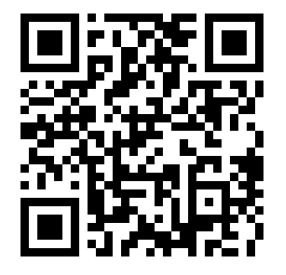
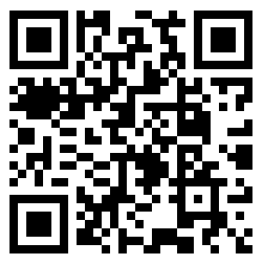
qrpadus.png replace Co-authored-by: monkeycode-ai <monkeycode-ai@chaitin.com>

diff --git a/index.html b/index.html
@@ -7,7 +7,7 @@
     <meta name="description" content="Aplikasi absensi ekstrakurikuler Paduan Suara berbasis Google Sheets.">
     <meta name="theme-color" content="#2563eb">
     <link rel="icon" type="image/png" href="favicon.png">
-    <link rel="stylesheet" href="styles.css?v=20260928n">
+    <link rel="stylesheet" href="styles.css?v=20260928o">
     <style>div[data-netlify-badge-floating] { display: none !important; }</style>
     <link rel="preconnect" href="https://fonts.googleapis.com">
     <link rel="preconnect" href="https://fonts.gstatic.com" crossorigin>
@@ -15,8 +15,8 @@
     <noscript>
         <link rel="stylesheet" href="https://fonts.googleapis.com/css2?family=Inter:wght@400;500;600;700&display=swap">
     </noscript>
-    <script src="config.js?v=20260928n" defer></script>
-    <script src="app.js?v=20260928n" defer></script>
+    <script src="config.js?v=20260928o" defer></script>
+    <script src="app.js?v=20260928o" defer></script>
 </head>
 <body class="min-h-screen flex flex-col items-center justify-center p-4 bg-gray-50">
 

diff --git a/app.js b/app.js
@@ -8,8 +8,8 @@
 // cache aset tersedia sesegera mungkin.
 // Sekaligus deteksi bila ada versi baru terpasang agar pengguna
 // dapat diminta melakukan hard refresh.
-const APP_ASSET_VERSION = '20260928n';
-const APP_CACHE_NAME = 'choir-absensi-v110';
+const APP_ASSET_VERSION = '20260928o';
+const APP_CACHE_NAME = 'choir-absensi-v111';
 let swRegistration = null;
 let updateModalShown = false;
 let updateReloadArmed = false;

diff --git a/sw.js b/sw.js
@@ -7,8 +7,8 @@
      aset app.js/styles.css yang tidak lagi dipakai dibersihkan agar
      cache tetap ramping.
 */
-var CACHE_NAME = 'choir-absensi-v110';
-var ASSET_VERSION = '20260928n';
+var CACHE_NAME = 'choir-absensi-v111';
+var ASSET_VERSION = '20260928o';
 var CORE_ASSETS = [
   './',
   './app.js?v=' + ASSET_VERSION,

diff --git a/README.md b/README.md
@@ -41,7 +41,7 @@ Karena itu, setelah mengubah file frontend: **push ke GitHub**, lalu **redeploy 
 
 ## Caching (Service Worker)
 
-`sw.js` meng-cache aset statis (CSS, JS, `Absensi.md`, ikon, logo, halaman utama) agar aplikasi terbuka cepat pada kunjungan berikutnya dan tetap bisa diakses saat offline. Strategi: **cache-first** untuk navigasi halaman (HTML cache tidak ditimpa sampai Hard Refresh, agar modal **Pembaruan Tersedia** sempat tampil), **network-first** untuk `config.js` (perubahan URL default oleh admin langsung terpakai di semua perangkat; fallback cache saat offline), **cache-first** untuk aset statis same-origin lainnya (di-bust lewat `?v=`), dan **stale-while-revalidate** untuk font Google lintas-origin. Cache diberi versi (`CACHE_NAME`, kini `choir-absensi-v110`); versi lama otomatis dibersihkan saat aktivasi, varian aset `app.js`/`styles.css`/`config.js` yang sudah tidak dipakai ikut dihapus (cache tetap ramping), dan jumlah entri dibatasi (100).
+`sw.js` meng-cache aset statis (CSS, JS, `Absensi.md`, ikon, logo, halaman utama) agar aplikasi terbuka cepat pada kunjungan berikutnya dan tetap bisa diakses saat offline. Strategi: **cache-first** untuk navigasi halaman (HTML cache tidak ditimpa sampai Hard Refresh, agar modal **Pembaruan Tersedia** sempat tampil), **network-first** untuk `config.js` (perubahan URL default oleh admin langsung terpakai di semua perangkat; fallback cache saat offline), **cache-first** untuk aset statis same-origin lainnya (di-bust lewat `?v=`), dan **stale-while-revalidate** untuk font Google lintas-origin. Cache diberi versi (`CACHE_NAME`, kini `choir-absensi-v111`); versi lama otomatis dibersihkan saat aktivasi, varian aset `app.js`/`styles.css`/`config.js` yang sudah tidak dipakai ikut dihapus (cache tetap ramping), dan jumlah entri dibatasi (100).
 
 Karena aset statis memakai strategi cache-first, setiap rilis memakai **cache-busting berbasis tanggal rilis saat ini** pada `app.js`, `styles.css`, dan `config.js` (contoh `?v=20260928a`) agar browser mengambil file versi terbaru — URL baru = cache miss = unduh ulang, lalu di-cache. Bila ada beberapa deploy dalam satu hari, tambahkan akhiran (contoh `?v=20260928a`, `?v=20260928b`). Jangan pernah memakai tanggal lama lagi (risiko cache basi).
 
@@ -62,7 +62,7 @@ Saat deploy, selain mengganti `?v=` di `index.html`, perbarui juga `ASSET_VERSIO
 - **Ikon pada tombol**: setiap tombol aksi dilengkapi ikon SVG inline (mis. printer untuk **Print**, gembok untuk kunci/buka kunci, kunci kecil untuk Ganti Kata Sandi, jam untuk **Riwayat**) agar tampilan aplikasi lebih informatif.
 - **Bantuan / Panduan**: tombol ikon `?` di kiri atas membuka modal berisi panduan penggunaan yang dirender dari `Absensi.md` (Markdown) lewat renderer Markdown ringan di `app.js`.
 - **Tombol refresh**: memuat ulang aplikasi langsung dari header.
-- **Versi aplikasi di footer**: teks kecil **Versi v110** di bawah tagline footer, angkanya diambil dari `APP_CACHE_NAME` (`choir-absensi-v110` -> `v110`) oleh `#appVersion` saat halaman dimuat; atribut `title` elemen menampilkan cache name lengkap beserta `APP_ASSET_VERSION` (tanggal rilis, mis. `choir-absensi-v110 · 20260928n`), sehingga admin dapat memastikan Hard Refresh sudah memuat versi terbaru.
+- **Versi aplikasi di footer**: teks kecil **Versi v111** di bawah tagline footer, angkanya diambil dari `APP_CACHE_NAME` (`choir-absensi-v111` -> `v111`) oleh `#appVersion` saat halaman dimuat; atribut `title` elemen menampilkan cache name lengkap beserta `APP_ASSET_VERSION` (tanggal rilis, mis. `choir-absensi-v111 · 20260928o`), sehingga admin dapat memastikan Hard Refresh sudah memuat versi terbaru.
 - **QR Paduan Suara**: klik teks footer "Absensi Ekskul Paduan Suara &middot; SMA Kemurnian II" untuk membuka modal berisi kode QR ekskul (`qrpadus.png`).
 - **Peek Laporan Absensi Hari Ini**: klik/mengetuk tanggal di header (di bawah judul "ABSENSI PADUAN SUARA") membuka modal ringkas berisi daftar siswa yang sudah tercatat hari ini. Tiap baris kompak: **No**, **Nama** di kiri dan **Student ID | Kelas** di kanan pada satu baris, lalu **jam log-in** (HH:MM) dan tombol ikon jam **Riwayat** (`showPeekStudentHistory()`). Siswa berstatus **Izin** ditandai **"(Izin)"** oranye di samping nama. Modal riwayat dari peek **tanpa tombol Print**; **Tutup** full-width seperti peek. Data dari action `report` hari ini dan mengikuti rentang tahun ekskul.
 - **Backup Data (Admin)**: submenu **Backup Data** di **Menu Admin** (setelah Daftar Siswa) memiliki tombol **Buat Backup Sekarang** yang memanggil action `backup`. Backend menduplikasi sheet `STUDENTS` dan `ATTENDANCE` menjadi sheet baru di spreadsheet yang sama dengan nama `STUDENTS<DDMMYY>` dan `ATTENDANCE<DDMMYY>` (mis. `STUDENTS110926`). Hanya **6 backup bertanggal terbaru per sheet** yang disimpan; backup lama otomatis dihapus. Sebelum backup dijalankan, modal konfirmasi muncul bila backup tanggal hari ini akan **diganti**, atau bila kuota 6 tanggal terpenuhi sehingga backup **terlama akan dihapus**. Tombol **Lanjutkan** (biru, terfokus) dikonfirmasi dengan **Enter**; **Batal** dengan **Escape**. Submenu ini juga menampilkan **Daftar data backup:** (nama sheet sebagai inline code, tanggal, jumlah records, font kecil) yang **diurutkan berdasarkan tanggal menurun (terbaru di atas)**, dimuat saat menu dibuka dan diperbarui setelah backup (action `backuplist`).

diff --git a/Panduan-Admin.md b/Panduan-Admin.md
@@ -322,7 +322,7 @@ Aplikasi memakai service worker + cache. Saat ada **rilis baru**, muncul modal *
 
 Pengecekan pembaruan berjalan otomatis 2 detik setelah halaman dimuat, lalu setiap 60 detik (1 menit), dan saat tab kembali aktif.
 
-Di footer halaman (di bawah tagline *"Absensi Ekskul Paduan Suara · SMA Kemurnian II"*) tertera label kecil **Versi v110** yang angkanya mengikuti nomor `CACHE_NAME` (mis. `choir-absensi-v110` -> `v110`). Setelah **Hard Refresh**, pastikan nomor tersebut sudah berubah ke versi terbaru; tahan/arahkan kursor ke label untuk melihat nama cache lengkap beserta tanggal rilis (mis. `choir-absensi-v110 · 20260928n`). Nomor ini berguna saat melaporkan masalah agar versi yang dipakai dapat dipastikan.
+Di footer halaman (di bawah tagline *"Absensi Ekskul Paduan Suara · SMA Kemurnian II"*) tertera label kecil **Versi v111** yang angkanya mengikuti nomor `CACHE_NAME` (mis. `choir-absensi-v111` -> `v111`). Setelah **Hard Refresh**, pastikan nomor tersebut sudah berubah ke versi terbaru; tahan/arahkan kursor ke label untuk melihat nama cache lengkap beserta tanggal rilis (mis. `choir-absensi-v111 · 20260928o`). Nomor ini berguna saat melaporkan masalah agar versi yang dipakai dapat dipastikan.
 
 ---
 

diff --git a/Panduan-Siswa.md b/Panduan-Siswa.md
@@ -153,7 +153,7 @@ Jika ada kesalahan pengisian, segera sampaikan kepada **guru pembimbing / ketua 
 | **Riwayat kehadiranmu** | Dari daftar absensi hari ini, tekan tombol **Riwayat** (ikon jam) di baris namamu untuk melihat riwayat kehadiran per bulan |
 | **Muat Ulang** | Tombol **refresh** di header — memuat ulang aplikasi bila layar bermasalah |
 | **QR Paduan Suara** | Ketuk teks footer *"Absensi Ekskul Paduan Suara · SMA Kemurnian II"* — menampilkan kode QR ekskul |
-| **Versi aplikasi** | Teks kecil **Versi v110** di bawah tulisan footer (nama sekolah). Tidak perlu dilakukan apa-apa; berguna bila guru/admin menanyakan versi aplikasi yang kamu pakai |
+| **Versi aplikasi** | Teks kecil **Versi v111** di bawah tulisan footer (nama sekolah). Tidak perlu dilakukan apa-apa; berguna bila guru/admin menanyakan versi aplikasi yang kamu pakai |
 | **Panduan ini** | Tersedia juga di menu **Bantuan** aplikasi |
 | **Pengaturan & Setup** | Ikon **roda gigi** di kanan atas (selalu tampil) — berisi **Koneksi Google Sheets** dan panduan **Setup Backend**. Tidak perlu kata sandi dan hanya memengaruhi perangkat ini. Menu pengaturan admin tetap terpisah dan terkunci |
 
